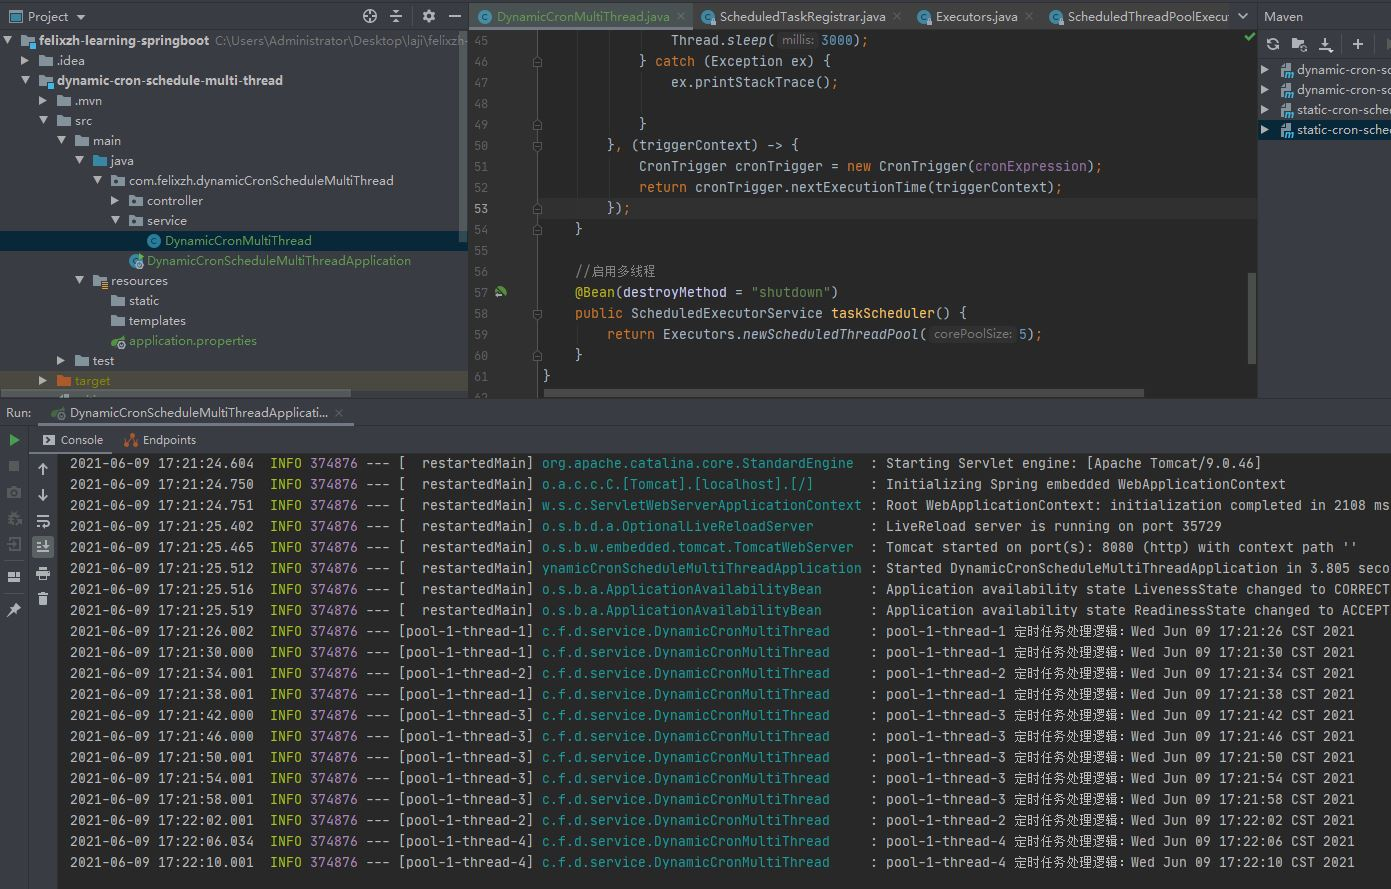
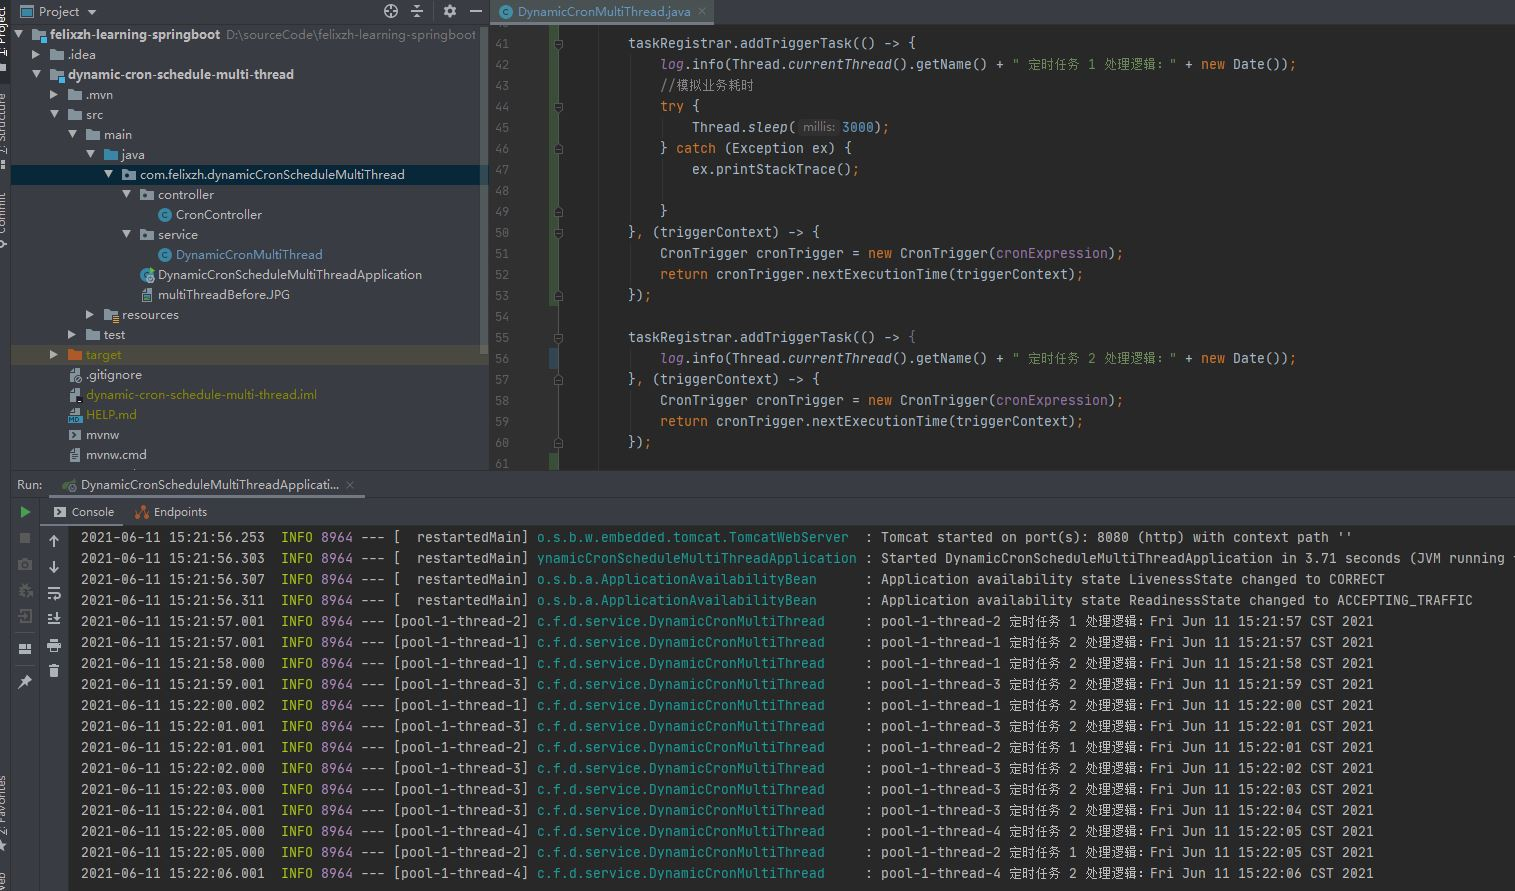
扩充示例

diff --git a/dynamic-cron-schedule-multi-thread/src/main/java/com/felixzh/dynamicCronScheduleMultiThread/service/DynamicCronMultiThread.java b/dynamic-cron-schedule-multi-thread/src/main/java/com/felixzh/dynamicCronScheduleMultiThread/service/DynamicCronMultiThread.java
@@ -39,7 +39,7 @@ public class DynamicCronMultiThread implements SchedulingConfigurer {
         taskRegistrar.setScheduler(taskScheduler());
 
         taskRegistrar.addTriggerTask(() -> {
-            log.info(Thread.currentThread().getName() + " 定时任务处理逻辑：" + new Date());
+            log.info(Thread.currentThread().getName() + " 定时任务 1 处理逻辑：" + new Date());
             //模拟业务耗时
             try {
                 Thread.sleep(3000);
@@ -51,6 +51,14 @@ public class DynamicCronMultiThread implements SchedulingConfigurer {
             CronTrigger cronTrigger = new CronTrigger(cronExpression);
             return cronTrigger.nextExecutionTime(triggerContext);
         });
+
+        taskRegistrar.addTriggerTask(() -> {
+            log.info(Thread.currentThread().getName() + " 定时任务 2 处理逻辑：" + new Date());
+        }, (triggerContext) -> {
+            CronTrigger cronTrigger = new CronTrigger(cronExpression);
+            return cronTrigger.nextExecutionTime(triggerContext);
+        });
+
     }
 
     //启用多线程
@@ -58,4 +66,13 @@ public class DynamicCronMultiThread implements SchedulingConfigurer {
     public ScheduledExecutorService taskScheduler() {
         return Executors.newScheduledThreadPool(5);
     }
+
+/*    @Bean(value = "taskScheduler")
+    public TaskScheduler taskScheduler(){
+        ThreadPoolTaskScheduler taskScheduler = new ThreadPoolTaskScheduler();
+        taskScheduler.setPoolSize(10);
+        taskScheduler.setThreadNamePrefix("felixzh-");
+        taskScheduler.initialize();
+        return taskScheduler;
+    }*/
 }
